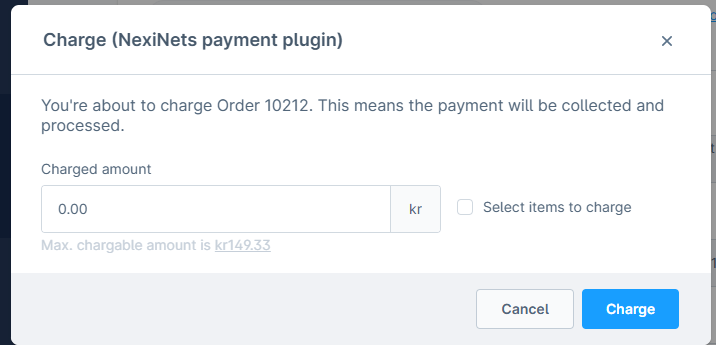
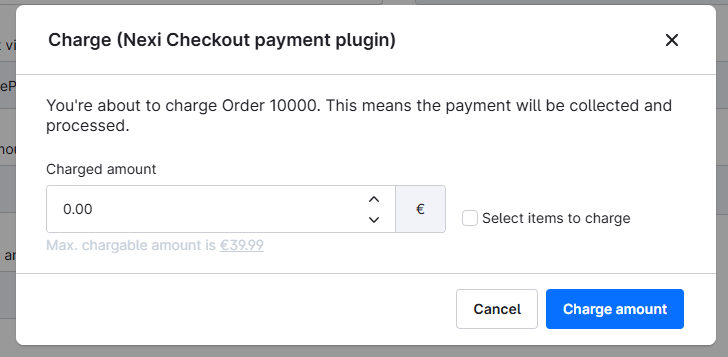
Update documentation
docs: added embedded documentation

diff --git a/docs/README.md b/docs/README.md
@@ -60,7 +60,7 @@ Update steps:
 
 After installing the module, you need to do some basic configuration of the module in Shopware Admin:
 
-1. Navigate to `Extensions > My extensions > NexiNets Checkout`
+1. Navigate to `Extensions > My extensions > Nexi Checkout`
 2. Locate the Nexi Group payment plugin and press the button with three dots (...) to access the configuration.
 3. Fill out the required fields, such as integration keys (secret keys and checkout keys), and Webhook Code.
 4. (Optional) Customize the module according to your needs using the additional settings on the configuration page.
@@ -70,7 +70,13 @@ Both integration keys can be found in Checkout Portal. See the following pages f
 - [Where can I find my merchant number (merchant ID)?](https://developer.nexigroup.com/nexi-checkout/en-EU/support/where-can-i-find-my-merchant-number-merchant-id/)
 - [Access your integration keys](https://developer.nexigroup.com/nexi-checkout/en-EU/docs/access-your-integration-keys/)
 
-> Integration Type: Embedded is not a valid option yet. Please use Hosted Payment.
+## Embedded vs Hosted
+
+To configure Nexi Checkout as payment method for the Shopware 6.7 plugin, please go to the Storefront configuration page under Sales Channels:
+Go to Payment methods and using the dropdown, select either Nexi Checkout Embedded or Nexi Checkout Hosted.
+Click on Save your changes.
+
+Then go to `Settings > Payment Methods`, find Nexi Checkout Embedded or Nexi Checkout Hosted, click Edit details, change Name to Nexi Checkout, and click on Save.
 
 ## Order management
 
@@ -133,7 +139,7 @@ Below are some of the most common configuration errors, their cause, and steps t
 
 - Ensure your integration keys in the Nexi Group plugin settings are correct and do not contain additional blank spaces.
 - Temporarily deactivate third-party plugins that might affect the functionality of the plugin.
-- Check if there are any temporary technical inconsistencies: [Operational Status](https://nets.eu/Pages/operational-status.aspx)
+- Check if there are any temporary technical inconsistencies: [Operational Status](https://easy-status.developers.nets.eu/)
 
 ### Payments in live mode don't work
 
